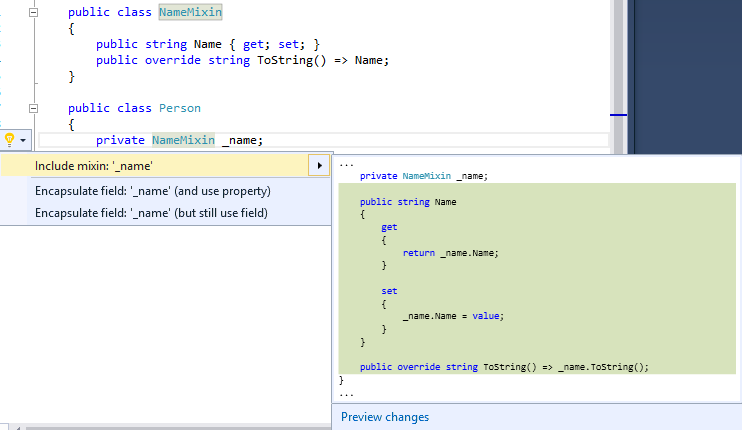
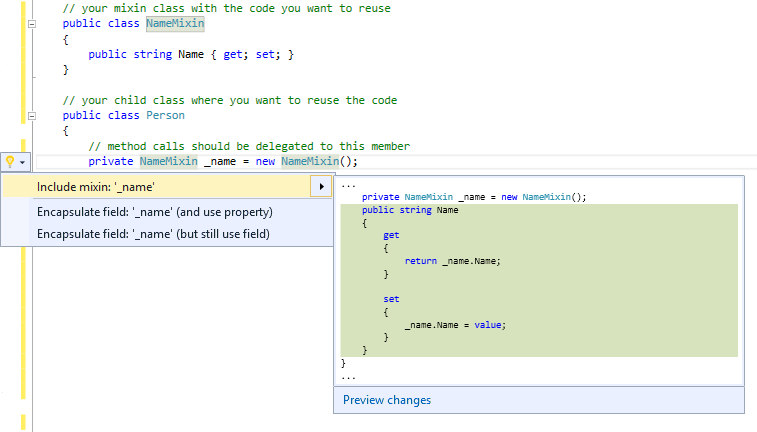
[update] reworked some screenshots, fix link to wiki

diff --git a/README.md b/README.md
@@ -11,7 +11,7 @@ For the ouside standing caller it looks like that the child instance is handling
  
 ## why are they useful?
 
-Compared to classical inheritance, mixins have some advantages. Please check the wiki for a more detailed comparison between the both approaches.  
+Compared to classical inheritance, mixins have some advantages. Please check the [wiki](https://github.com/pgenfer/mixinSharp/wiki/Mixins---An-Overview) for a more detailed comparison between the both approaches.  
 Unfortunately, C# does not support mixins directly on a language level, that's where mixinSharp comes into play by offering a refactoring step that automatically creates the required mixin code.
 
 ## a simple example
